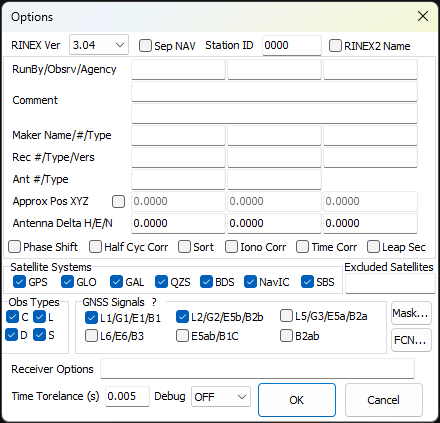
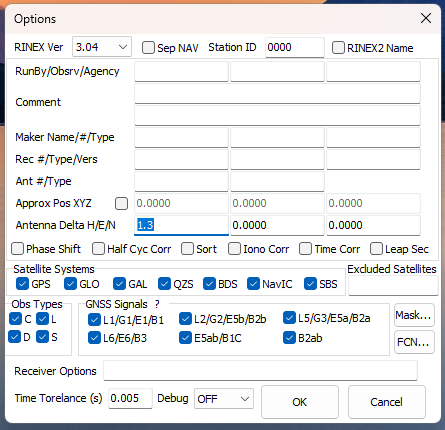
COLMAP in maiuscolo e correzioni ppk

Changed region(s): [[0.0, 0.0, 1.0, 1.0], [0.2955, 0.3381, 0.9455, 0.3995], [0.2955, 0.1844, 0.9455, 0.2459]]

diff --git a/DSM_colmap_CC.rst b/DSM_colmap_CC.rst
@@ -1,22 +1,22 @@
-Creare DSM con colmap e CloudCompare
+Creare DSM con COLMAP e CloudCompare
 ====================================
 
 Step 1: Preparazione della cartella progetto e dei programmi
 ------------------------------------------------------------
 
 1. Creare come cartella progetto una cartella vuota e posizionare le foto stereo di interesse in una sua sottocartella.
-2. Scaricare dal `sito ufficiale di colmap`_ il programma.
+2. Scaricare dal `sito ufficiale di COLMAP`_ il programma.
    
-   NB: colmap necessita di una scheda video NVIDIA che supporti CUDA.
+   NB: COLMAP necessita di una scheda video NVIDIA che supporti CUDA.
 3. Scaricare dal `sito ufficiale di CloudCompare`_ il programma ed installarlo.
 
-Step 2: Ricostruzione sparsa della nuvola di punti con colmap
+Step 2: Ricostruzione sparsa della nuvola di punti con COLMAP
 -------------------------------------------------------------
 
-1. Estrarre la cartella compressa di colmap.
-2. Avviare il file batch 'COLMAP.bat'. Si aprirà una finestra del terminale e dopo qualche secondo l'interfaccia grafica di colmap (al primo avvio ci metterà un po\').
+1. Estrarre la cartella compressa di COLMAP.
+2. Avviare il file batch 'COLMAP.bat'. Si aprirà una finestra del terminale e dopo qualche secondo l'interfaccia grafica di COLMAP (al primo avvio ci metterà un po\').
    
-   .. image:: assets/dsm/images/colmap.png
+   .. image:: assets/dsm/images/COLMAP.png
 
 3. Creare un nuovo progetto premendo su File > New project. Si aprirà una finestrella che ci chiederà un database e le foto stereo. 
 
@@ -24,34 +24,34 @@ Step 2: Ricostruzione sparsa della nuvola di punti con colmap
    * Per le immagini: premere [Select] e selezionare la sottocartella contenente le foto stereo.
    * Premere [Save].
   
-   .. image:: assets/dsm/images/colmap_new_project.png
+   .. image:: assets/dsm/images/COLMAP_new_project.png
 
 4. Premere File > Save project. Salvare il file .ini all'interno della cartella progetto e ricordarsi di salvare dopo ogni prossimo passaggio di questo step.
 
 5. Premere Processing > Feature extraction. Aumentare il numero di features da estrarre da ogni immagine aumentando il parametro sift.max_num_features (valore consigliato per la workstation: 45000). Premere [Extract].
    
-   .. image:: assets/dsm/images/colmap_feature_extraction.png
+   .. image:: assets/dsm/images/COLMAP_feature_extraction.png
 
 6. Chiudere la finestra di Feature extraction e premere Processing > Feature matching. Aumentare il numero di accoppiamenti tra le features delle immagini aumentando il parametro max_num_matches (valore consigliato per la workstation: 45000). Premere [Run].
    
-   .. image:: assets/dsm/images/colmap_feature_matching.png
+   .. image:: assets/dsm/images/COLMAP_feature_matching.png
 
 7. Chiudere la finestra di Feature matching e premere Reconstruction > Start Reconstruction.
    
-   .. image:: assets/dsm/images/colmap_sparse_reconstruction.png
+   .. image:: assets/dsm/images/COLMAP_sparse_reconstruction.png
 
-Step 3: Ricostruzione densa della nuvola di punti con colmap
+Step 3: Ricostruzione densa della nuvola di punti con COLMAP
 ------------------------------------------------------------
 
 1. Premere Reconstruction > Dense reconstruction. Si aprirà una nuova finestra.
 2. Premere [Select] e selezionare la cartella progetto.
 3. Premere [Undistortion]. Si creeranno diversi nuovi file e sottocartelle all'interno della cartella progetto, tra cui la sottocartella images contenente le immagini senza distorsione della fotocamera. Finito il processo, nella finestra 'Dense reconstruction' comparirà la lista delle immagini elaborate.
    
-   .. image:: assets/dsm/images/colmap_dense_reconstruction.png
+   .. image:: assets/dsm/images/COLMAP_dense_reconstruction.png
 
 4. Premere [Options]. Nel tab Stereo, aumentare il parametro max_image_size per aumentare il numero di punti della nuvola finale (valore consigliato per la workstation: 10000). Chiudere la finestra 'Dense reconstruction options'.
    
-   .. image:: assets/dsm/images/colmap_options.png
+   .. image:: assets/dsm/images/COLMAP_options.png
 
 5. Premere [Stereo]. Questo processo è molto lento.
 
@@ -120,6 +120,6 @@ Step 7: Conclusioni
 
    .. image:: assets/dsm/images/qgis_raster.png
 
-.. _sito ufficiale di colmap: https://github.com/colmap/colmap/releases
+.. _sito ufficiale di COLMAP: https://github.com/colmap/colmap/releases
 .. _sito ufficiale di CloudCompare: https://www.cloudcompare.org/
 .. _Video di Paolo Corradeghini sulla georeferenziazione in CloudCompare: https://www.youtube.com/watch?v=YsGNoCPR9K4

diff --git a/ppk_da_raw2go.rst b/ppk_da_raw2go.rst
@@ -48,6 +48,8 @@ Step 2: conversione da .ubx a (.obs + .nav)
 4. Sotto 'RTCM, RCV RAW or RINEX OBS ?', premere [...] e selezionare il file .ubx prodotto da raw2go. Sotto 'RINEX OBS/NAV/GNAV/HNAV/QNAV/LNAV/CNAV/INAV/ and SBS' compariranno automaticamente i percorsi dei file che verranno creati in seguito.
 
 5. Premere [# Options...]: 
+   
+   * Scrivere l'altezza da terra del ricevitore GNSS nella prima cella di 'Antenna Delta H/E/N' (vedi immagine sotto).
 
    .. image:: assets/ppk/images/rtkconv_options.png
 
@@ -85,15 +87,20 @@ Step 4: PPK
 4. Sotto “RINEX NAV/CLK, SP3, BIA/BSX, FCB, IONEX, SBS/EMS, or RTCM” premere [...] e selezionare il file .nav creato alla fine dello Step 2. 
 
 5. Premere [# Options...]:
-
-   .. image:: assets/ppk/images/rtkpost_options.png
    
    * Premere [Load...], navigare nella cartella di RTKLIB e selezionare il file “f9p_ppk.conf”. Questo file contiene la configurazione ottimale per fare Post Processing Kinematics con il chip F9P, presente all'interno del ricevitore GNSS. 
+   * Nel tab 'Setting1', come Positioning Mode scegliere 'Static' (vedi immagine sotto)
+
+   .. image:: assets/ppk/images/rtkpost_options.png
+
+   * Nel tab 'Positions', in 'Rover', scrivere l'altezza da terra del ricevitore GNSS nell'ultima cella di 'Delta-E/N/U (m)' (vedi immagine sotto).
    
+   .. image:: assets/ppk/images/rtkpost_options_positions.png
+
    * selezionare i satelliti di interesse.
    * Premere [OK]. La finestra Options si chiuderà.
 
-6. Nella finestra di RTKPOST, premere [> Execute]. Un file con formato .pos dovrebbe essersi creato nel percorso visualizzato in basso, assieme ad altri file.
+1. Nella finestra di RTKPOST, premere [> Execute]. Un file con formato .pos dovrebbe essersi creato nel percorso visualizzato in basso, assieme ad altri file.
 
 
 Step 5: Conversione da .pos a .gpx

diff --git a/index.rst b/index.rst
@@ -12,5 +12,5 @@ Documentazione Geomatica
    :caption: Contents:
 
    ppk_da_raw2go
-   DSM_colmap_CC
+   DSM_COLMAP_CC
 
